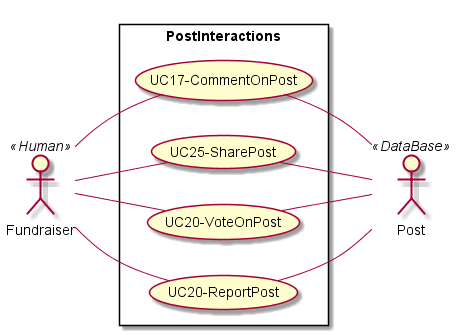
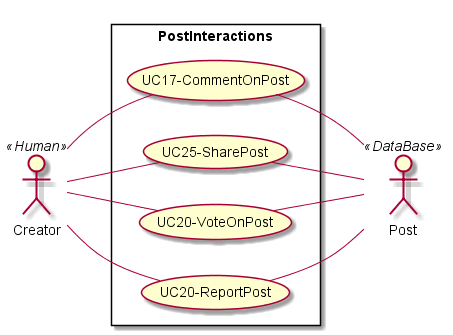
Some beans

diff --git a/Controller/Sahem/server/app_api/controllers/fundraisers.js b/Controller/Sahem/server/app_api/controllers/fundraisers.js
@@ -1,16 +1,16 @@
 // const mongoose = require('mongoose');
 import mongoose from "mongoose";
 // const Fundraiser = require('../models/User/fundraiser').Fundraiser;
-import { Fundraiser } from "../models/User/Fundraiser";
-export const fundraisersList = (req, res) => {
-    Fundraiser
-        .find({}, '', (error, Fundraisers) => {
+import { Creator } from "../models/User/Creator";
+export const creatorsList = (req, res) => {
+    Creator
+        .find({}, '', (error, creators) => {
             if (error) { console.error(error); }
-            if (Fundraisers) {
+            if (Creators) {
                 res
                     .status(200)
                     .send({
-                        fundraisers: fundraisers
+                        creators: creators
                     });
             }
             else {
@@ -22,13 +22,12 @@ export const fundraisersList = (req, res) => {
 
 
 };
-export const fundraisersCreate = (req, res) => {
+export const creatorsCreate = (req, res) => {
     Project
         .create({
-            content: req.body.content,
-            description: req.body.description,
-            fundGoal: req.body.fundGoal,
-            endDate: req.body.endDate
+            personal_information: req.body.personal_information,
+            address: req.body.address,
+            user_id: req.body.user_id,
         }, (err, project) => {
             if (err) {
                 res
@@ -42,7 +41,7 @@ export const fundraisersCreate = (req, res) => {
             }
         });
 };
-export const fundraisersReadOne = (req, res) => {
+export const creatorsReadOne = (req, res) => {
     console.log("res");
     res
         .status(200)
@@ -50,10 +49,10 @@ export const fundraisersReadOne = (req, res) => {
             name: "success"
         });
 };
-export const fundraisersUpdateOne = (req, res) => {
+export const creatorsUpdateOne = (req, res) => {
 
 };
-export const fundraisersDeleteOne = (req, res) => {
+export const creatorsDeleteOne = (req, res) => {
 
 };
 

diff --git a/Controller/Sahem/server/app_server/controllers/signup.js b/Controller/Sahem/server/app_server/controllers/signup.js
@@ -1,0 +1,43 @@
+import { User } from '../../app_api/models/User/User';
+import { getHashedPassword } from "../crypto";
+export const createUser = (res, rej) => {
+
+    const { email, username, password, confirmPassword } = req.body;
+    // TODO sanatize the inputs here
+    // TODO check the strength of the password
+    // TODO check the email if valid
+    // Check if the password and confirm password fields match
+    if (password === confirmPassword) {
+
+        // Check if user with the same email is also registered
+        if (User.find({ username: username, email: email })) {
+
+            res.render('register', {
+                message: 'User already registered.',
+                messageClass: 'alert-danger'
+            });
+
+            return;
+        }
+        // hash the password using sha256 then base64
+        const hashedPassword = getHashedPassword(password);
+
+        // Store user into the database if you are using one
+        users.push({
+            username,
+            email,
+            password: hashedPassword
+        });
+
+        res.render('login', {
+            message: 'Registration Complete. Please login to continue.',
+            messageClass: 'alert-success'
+        });
+    } else {
+        res.render('register', {
+            message: 'Password does not match.',
+            messageClass: 'alert-danger'
+        });
+    }
+
+}

diff --git a/Controller/Sahem/server/app.js b/Controller/Sahem/server/app.js
@@ -6,8 +6,8 @@
 import express from 'express';
 import path from 'path';
 import cookieParser from 'cookie-parser';
+// import bodyParser from 'body-parser';
 import logger from 'morgan';
-
 // const indexRouter = require('./app_server/routes/index');
 // const apiRouter = require('./app_api/routes/index');
 // const usersRouter = require('./app_server/routes/users');
@@ -33,7 +33,7 @@ app.use(express.static(path.join(__dirname, '../public')));
 //define routes
 app.use('/', indexRouter);
 app.use('/api', apiRouter);
-app.use('/users', usersRouter);
-app.use('/projects', projectsRouter);
-
+// app.use('/users', usersRouter);
+// app.use('/projects', projectsRouter);
+// app.use('/register', registerRouter);
 export default app;

diff --git a/Controller/Sahem/server/app_server/routes/index.js b/Controller/Sahem/server/app_server/routes/index.js
@@ -1,11 +1,12 @@
-// var express = require('express');
+// const express = require('express');
 import express from 'express';
-var router = express.Router();
+const router = express.Router();
+// const ctrlProjects = require('../controllers/projects');
+import ctrlSignUp from '../controllers/signup';
+// const ctrlReviews = require('../controllers/reviews');
+// locations
+router
+    .route('/signup')
+    .post(ctrlSignUp.createUser);
 
-/* GET home page. */
-router.get('/', function (req, res, next) {
-  res.render('index', { title: 'Sahem: Innovate, without worries' });
-});
 export default router;
-
-// module.exports = router;

diff --git a/Controller/Sahem/server/app_api/models/User/Creator.js b/Controller/Sahem/server/app_api/models/User/Creator.js
@@ -3,7 +3,7 @@ import timestamps from 'mongoose-timestamp';
 
 import { PersonalInformationSchema } from "./PersonalInformation";
 
-export const FundRaiserSchema = new Schema({
+export const CreatorSchema = new Schema({
     user_id: {
         type: mongoose.Types.ObjectId,
         ref: 'User'

diff --git a/Controller/Sahem/server/app_server/crypto.js b/Controller/Sahem/server/app_server/crypto.js
@@ -1,0 +1,8 @@
+// const crypto = require('crypto');
+import crypto from 'crypto';
+
+export const getHashedPassword = (password) => {
+    const sha256 = crypto.createHash('sha256');
+    const hash = sha256.update(password).digest('base64');
+    return hash;
+}

diff --git a/Controller/Sahem/server/app_api/models/Content/Post.js b/Controller/Sahem/server/app_api/models/Content/Post.js
@@ -5,7 +5,7 @@ import timestamps from 'mongoose-timestamp';
 export const PostSchema = new Schema({
     owner: {
         type: mongoose.Types.ObjectId,
-        ref: 'Fundraiser'
+        ref: 'Creator'
         // required: true
     },
     content: {

diff --git a/Controller/Sahem/server/app_api/models/User/User.js b/Controller/Sahem/server/app_api/models/User/User.js
@@ -14,6 +14,10 @@ export const UserSchema = new Schema({
     password: {
         type: String,
         require: true
+    },
+    emailIsConfirmed: {
+        type: Boolean,
+        default: false
     }
 });
 UserSchema.plugin(timestamps);

diff --git a/Controller/Sahem/server/app_api/models/Content/Comment.js b/Controller/Sahem/server/app_api/models/Content/Comment.js
@@ -4,7 +4,7 @@ import VoteSchema from './Vote';
 export const CommentSchema = new Schema({
     owner: {
         type: Schema.Types.ObjectId,
-        ref: 'Fundraiser',
+        ref: 'Creator',
     },
     content: {
         type: String

diff --git a/Controller/Sahem/server/app_api/models/Content/Project.js b/Controller/Sahem/server/app_api/models/Content/Project.js
@@ -39,7 +39,7 @@ export const ProjectSchema = new Schema({
     },
     fundraisers: {
         type: [Schema.Types.ObjectId],
-        ref: 'Fundraiser',
+        ref: 'Creator',
         default: null
     },
     votes: {

diff --git a/Controller/Sahem/server/app_api/models/Content/Vote.js b/Controller/Sahem/server/app_api/models/Content/Vote.js
@@ -14,7 +14,7 @@ export const VoteSchema = new Schema({
     },
     owner: {
         type: Schema.Types.ObjectId,
-        ref: 'Fundraiser'
+        ref: 'Creator'
     }
 });
 VoteSchema.plugin(timestamps);
